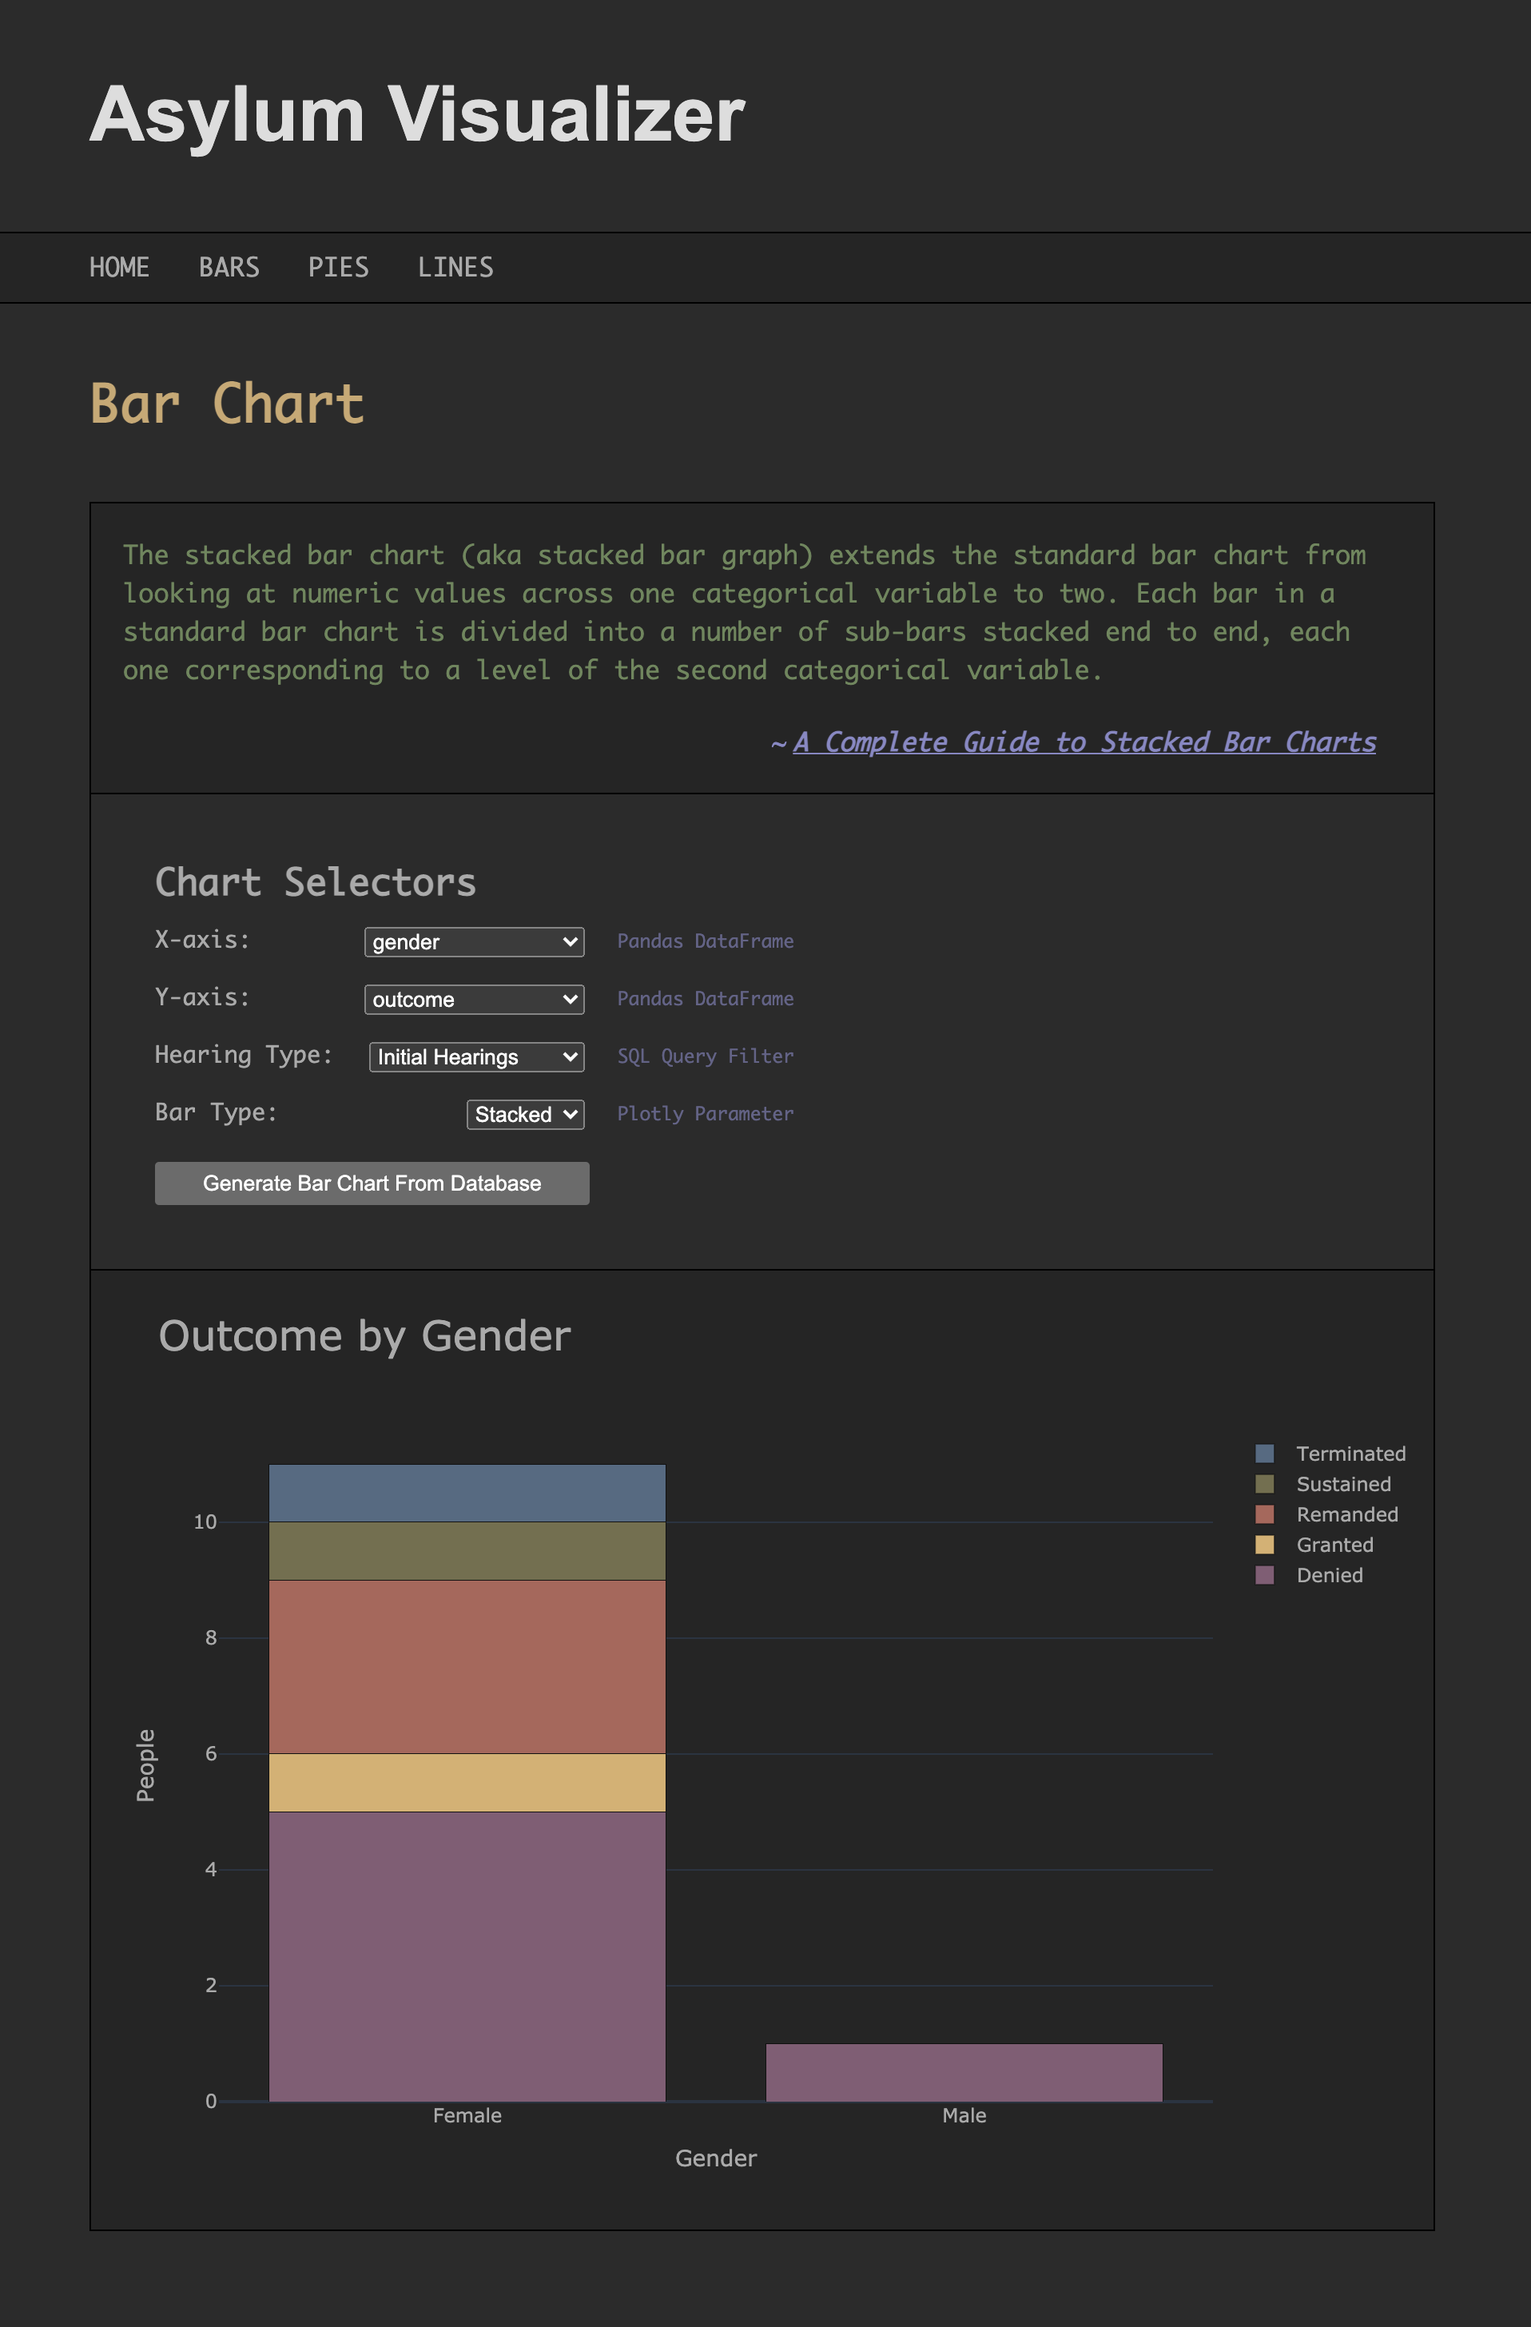
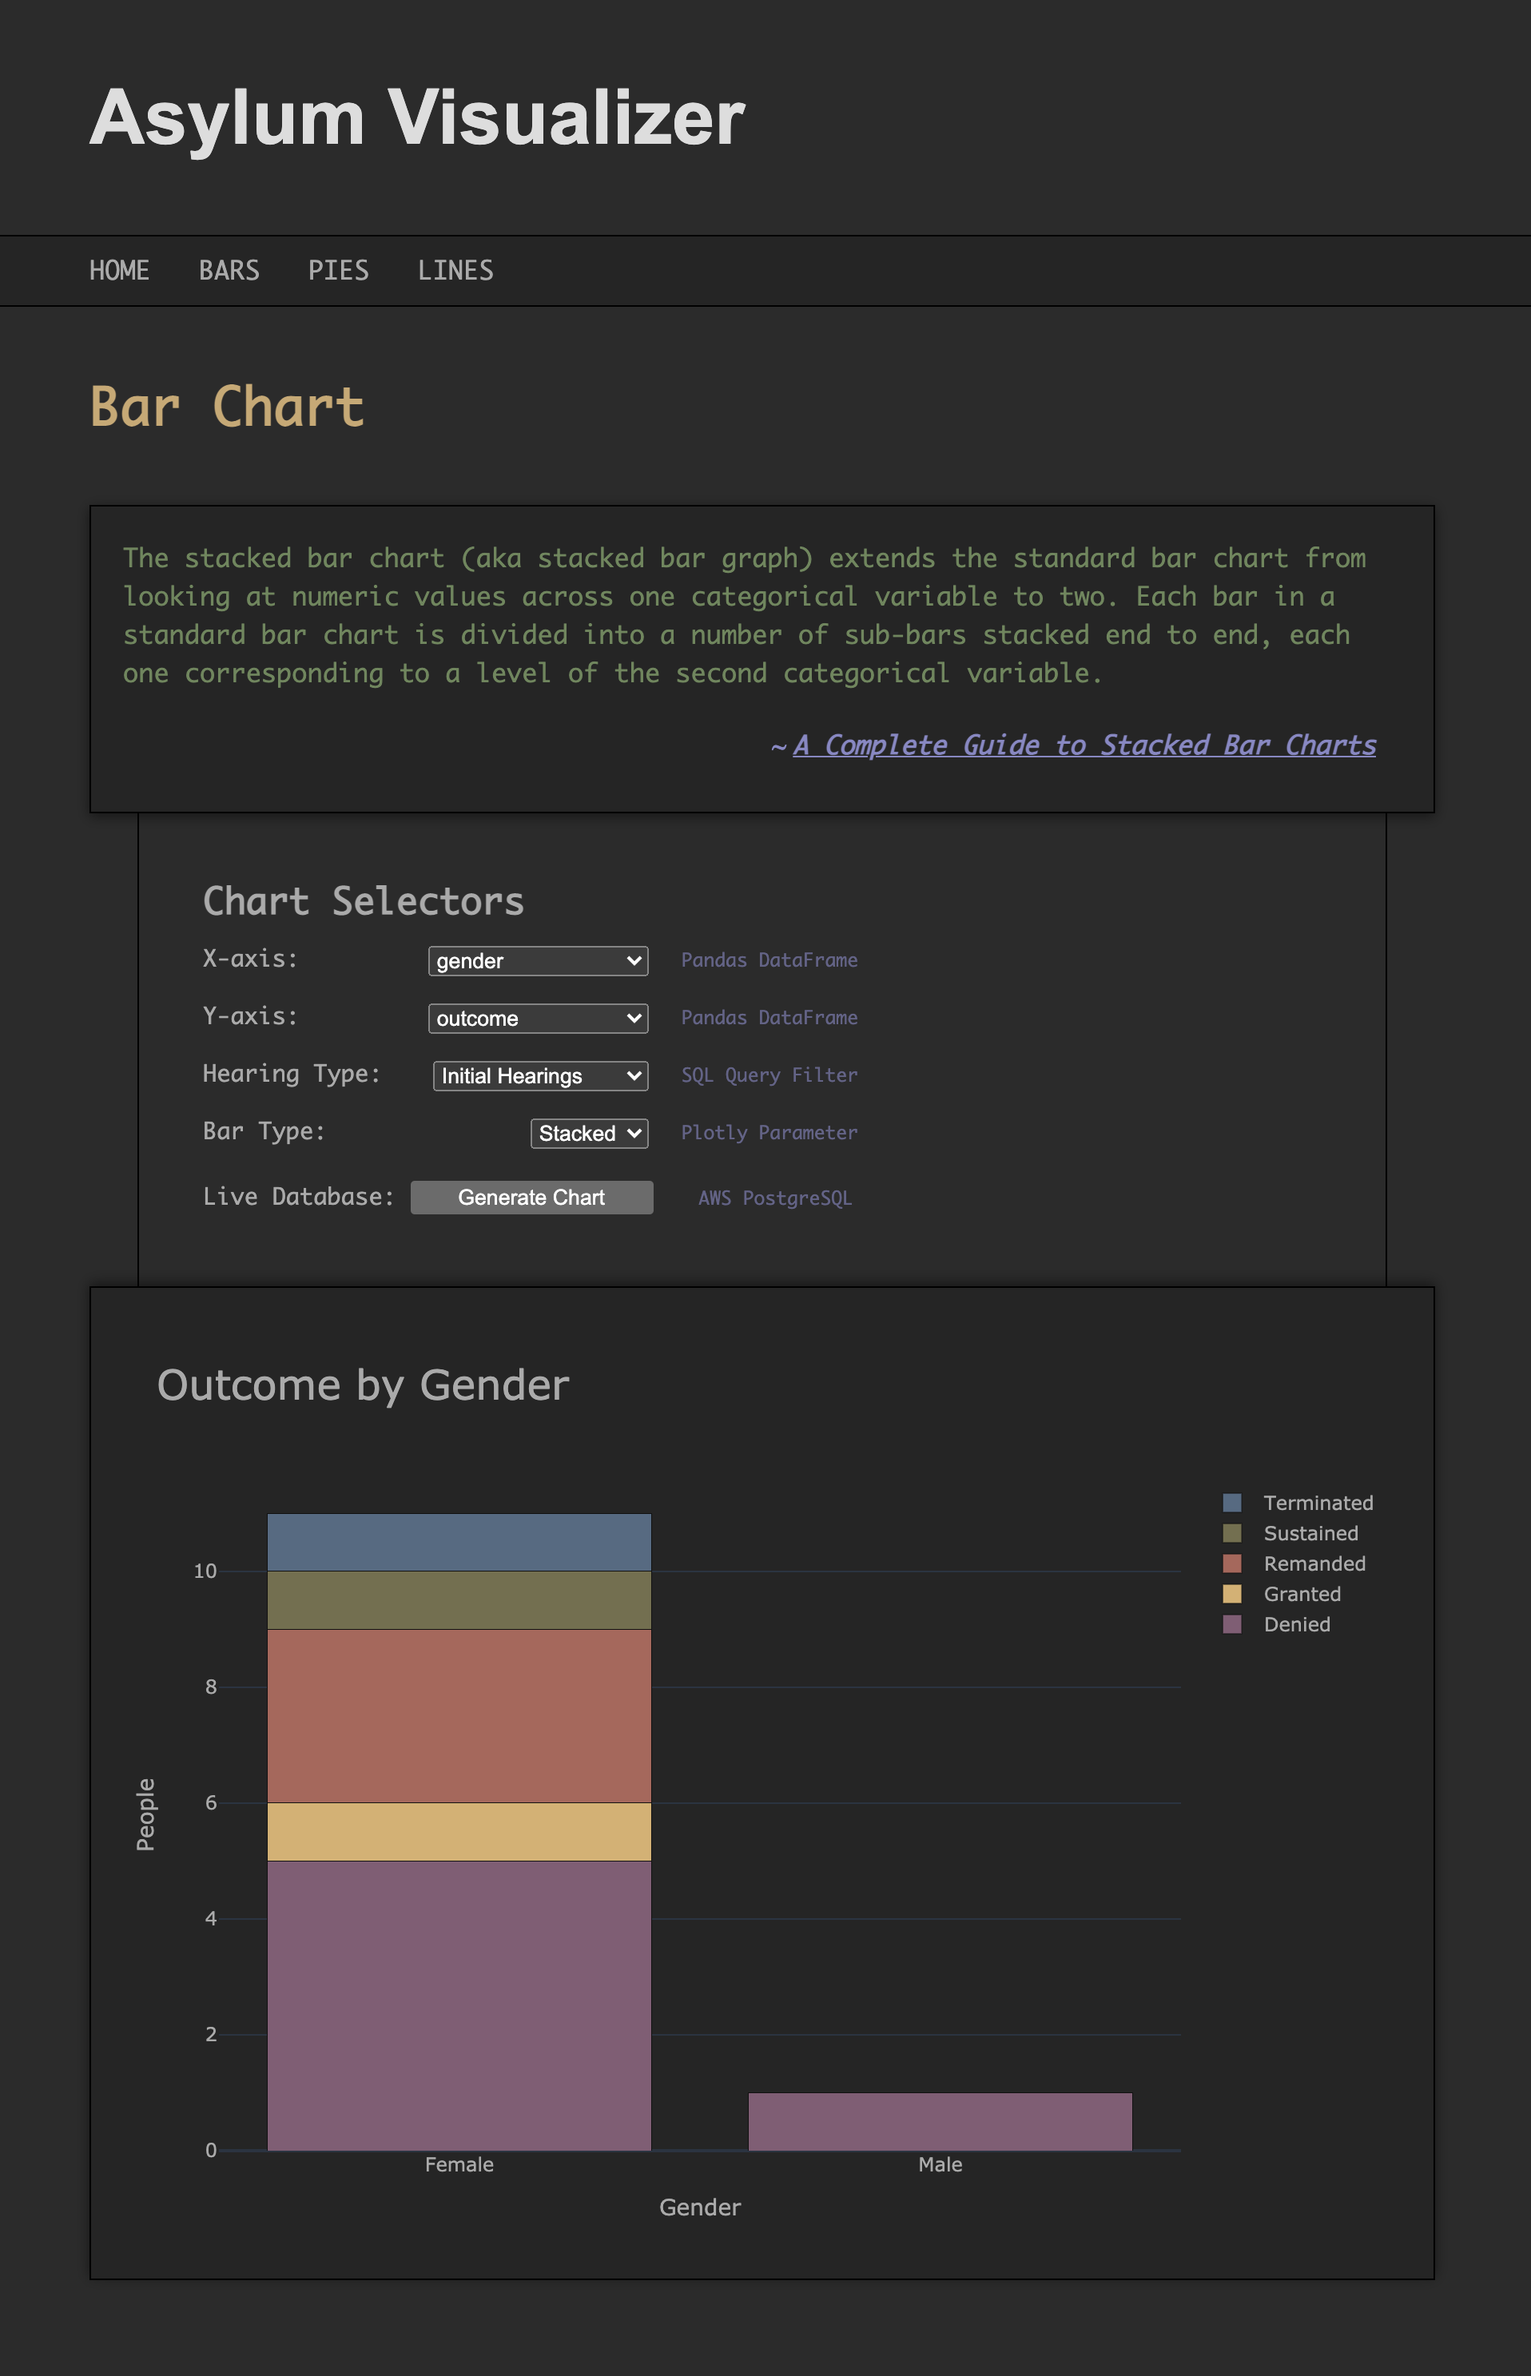
updates page style

diff --git a/app/templates/pies.html b/app/templates/pies.html
@@ -10,14 +10,14 @@
     proportional to the quantity it represents. While it is named for its
     resemblance to a pie which has been sliced, there are variations on the way
     it can be presented. The earliest known pie chart is generally credited to
-    William Playfair's Statistical Breviary of 1801.</p>
+    William Playfair"s Statistical Breviary of 1801.</p>
     <p>Pie charts are very widely used in the business world and the mass media.
     However, they have been criticized, and many experts recommend avoiding
     them, as research has shown it is difficult to compare different
     sections of a given pie chart, or to compare data across different pie charts.
     Pie charts can be replaced in most cases by other plots such as the bar chart,
     box plot, dot plot, etc.</p>
-    <cite><a href="https://en.wikipedia.org/wiki/Pie_chart">Wikipedia: Pie chart</a></cite>
+    <cite><a target="_blank" href="https://en.wikipedia.org/wiki/Pie_chart">Wikipedia: Pie chart</a></cite>
 </blockquote>
 
 <form id="form" method="post" action="{{ url_for('pies') }}">
@@ -49,8 +49,9 @@
             {% endif %}
         {% endfor %}
     </select><span class="notes">Plotly Parameter</span></span></p>
-    <p><button type="submit" id="submit" name="submit">Generate Pie Chart From Database</button></p>
-    <span class="clear"></span>
+    <p><span>Live Database: </span>
+    <button type="submit" id="submit" name="submit">Generate Chart</button>
+    <span class="notes">AWS PostgreSQL</span></p>
 </form>
 
 <div id= "chart"></div>

diff --git a/app/templates/lines.html b/app/templates/lines.html
@@ -12,7 +12,7 @@
     line segments. A line chart is often used to visualize a trend in data over
     intervals of time – a time series – thus the line is often drawn
     chronologically. In these cases they are known as run charts.</p>
-    <cite><a href="https://en.wikipedia.org/wiki/Line_chart">Wikipedia: Line chart</a></cite>
+    <cite><a target="_blank" href="https://en.wikipedia.org/wiki/Line_chart">Wikipedia: Line chart</a></cite>
 </blockquote>
 
 <form id="form" method="post" action="{{ url_for('lines') }}">
@@ -35,7 +35,6 @@
             {% endif %}
         {% endfor %}
     </select><span class="notes">SQL Query Filter</span></span></p>
-
     <p><span>Line Width:</span><span class="right-selector"><select name="line_width">
         {% for op in ['Thin', 'Medium', 'Thick'] %}
             {% if op == line_width %}
@@ -45,9 +44,9 @@
             {% endif %}
         {% endfor %}
     </select><span class="notes">Plotly Parameter</span></span></p>
-
-    <p><button type="submit" id="submit" name="submit">Generate Line Chart From Database</button></p>
-    <span class="clear"></span>
+    <p><span>Live Database: </span>
+    <button type="submit" id="submit" name="submit">Generate Chart</button>
+    <span class="notes">AWS PostgreSQL</span></p>
 </form>
 
 <div id= "chart"></div>

diff --git a/app/templates/bars.html b/app/templates/bars.html
@@ -9,7 +9,7 @@
     to two. Each bar in a standard bar chart is divided into a number of
     sub-bars stacked end to end, each one corresponding to a level of the
     second categorical variable.</p>
-    <cite><a href="https://chartio.com/learn/charts/stacked-bar-chart-complete-guide/">
+    <cite><a target="_blank" href="https://chartio.com/learn/charts/stacked-bar-chart-complete-guide/">
             A Complete Guide to Stacked Bar Charts</a></cite>
 </blockquote>
 
@@ -42,7 +42,6 @@
             {% endif %}
         {% endfor %}
     </select><span class="notes">SQL Query Filter</span></span></p>
-
     <p><span>Bar Type:</span><span class="right-selector"><select name="bar_type">
         {% for op in ['Stacked', 'Grouped'] %}
             {% if op == bar_type %}
@@ -52,9 +51,9 @@
             {% endif %}
         {% endfor %}
     </select><span class="notes">Plotly Parameter</span></span></p>
-
-    <button type="submit" id="submit" name="submit">Generate Bar Chart From Database</button>
-    <br class="clear"/>
+    <p><span>Live Database: </span>
+    <button type="submit" id="submit" name="submit">Generate Chart</button>
+    <span class="notes">AWS PostgreSQL</span></p>
 </form>
 
 <div id= "chart"></div>

diff --git a/app/static/css/form.css b/app/static/css/form.css
@@ -2,9 +2,9 @@
   color-scheme: dark;
 }
 #form {
-    width: 400px;
-    margin: 0px 0px 0 60px;
-    padding: 30px 400px 40px 40px;
+    width: 410px;
+    margin: 0px 30px 0 90px;
+    padding: 30px 330px 30px 40px;
     border-left: 1px solid #000;
     border-right: 1px solid #000;
     border-bottom: 1px solid #000;
@@ -16,8 +16,10 @@
 }
 #form input {
     margin: 0 0 0 10px;
+    cursor: pointer;
 }
 #form select {
+    cursor: pointer;
 }
 #form h4 {
     margin: 10px 0 10px;
@@ -32,6 +34,7 @@
     float: right;
 }
 #form button#submit {
-    padding: 4px 28px;
+    padding: 1px 28px;
     margin-top: 5px;
+    cursor: pointer;
 }

diff --git a/app/static/css/graph.css b/app/static/css/graph.css
@@ -2,7 +2,8 @@
     display: none;
 }
 #chart {
-    margin: 0 0 140px 60px;
+width: 800px;
+    margin: -1px 0 140px 60px;
 }
 .gtitle {
     font-size: 1.6em !important;
@@ -12,8 +13,15 @@
     fill: #aaaaaa !important;
 }
 #chart .svg-container {
+    width: 800px !important;
+    padding: 20px 20px 0px 20px;
     background-color: #252525;
-    border-left: 1px solid #000;
+    border-top: 1px solid #000;
     border-right: 1px solid #000;
     border-bottom: 1px solid #000;
+    border-left: 1px solid #000;
+    box-shadow: 0px -2px 8px rgba(0,0,0,0.50);
+}
+.js-plotly-plot .plotly .main-svg {
+    top: 20px !important;
 }

diff --git a/app/static/css/style.css b/app/static/css/style.css
@@ -92,6 +92,7 @@ blockquote {
     border: 1px solid #000;
     padding: 20px;
     width: 800px;
+    box-shadow: 0 2px 8px rgba(0,0,0,0.50);
 }
 blockquote p {
     color: #6a8759;
@@ -104,7 +105,7 @@ blockquote cite {
     display: block;
     text-align: right;
     width: 98%;
-    margin-top: 10px;
+    margin: 10px 0;
     color: #8888c6;
     font-weight: bold;
 }

diff --git a/app/main.py b/app/main.py
@@ -50,7 +50,7 @@ def bars():
             plot_bgcolor="rgba(0,0,0,0)",
             colorway=px.colors.qualitative.Antique,
             height=600,
-            width=840,
+            width=820,
             barmode=bar_lookup[bar_type],
             yaxis={"tickformat": ",", "title": "People"},
             xaxis={'title': col_1_name}
@@ -108,7 +108,7 @@ def lines():
             plot_bgcolor="rgba(0,0,0,0)",
             colorway=px.colors.qualitative.Antique,
             height=600,
-            width=840,
+            width=820,
             yaxis={"tickformat": ",", "title": "Cumulative Number of People"},
         )
         figure = go.Figure(data, layout)
@@ -156,7 +156,7 @@ def pies():
             plot_bgcolor="rgba(0,0,0,0)",
             colorway=px.colors.qualitative.Antique,
             height=640,
-            width=840,
+            width=820,
         )
         figure = go.Figure(data, layout)
         figure.update_traces(
